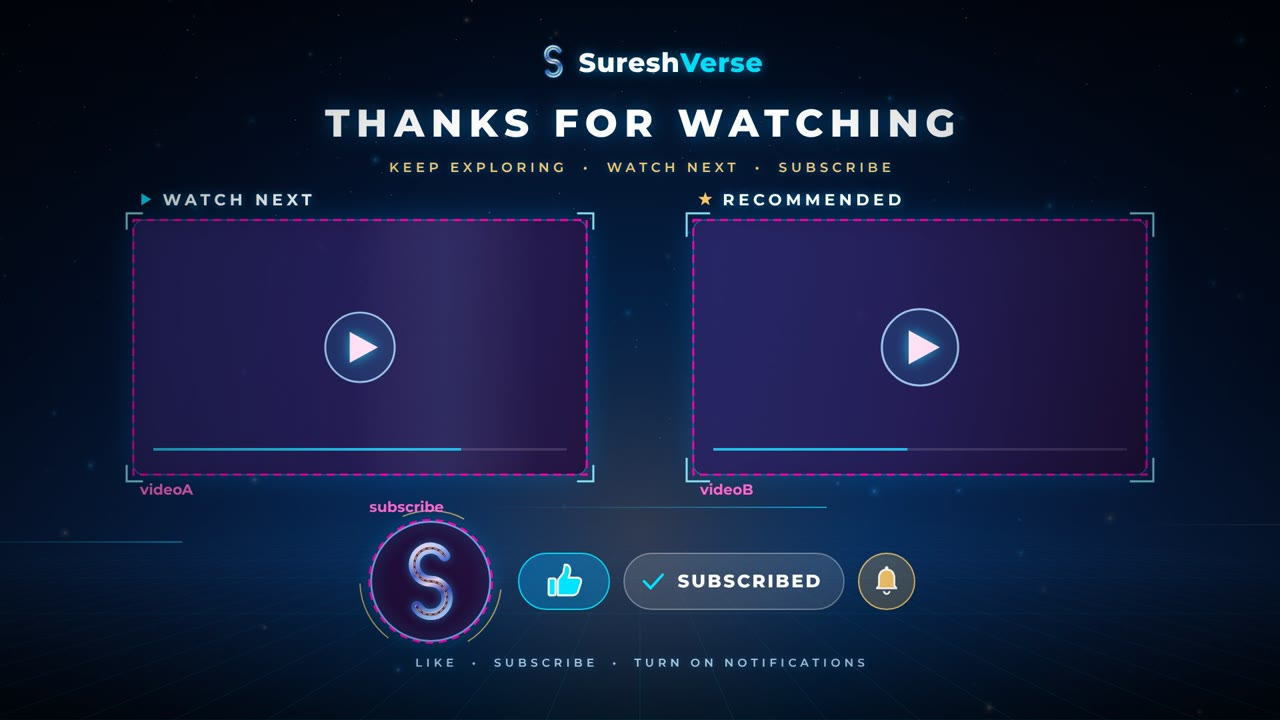
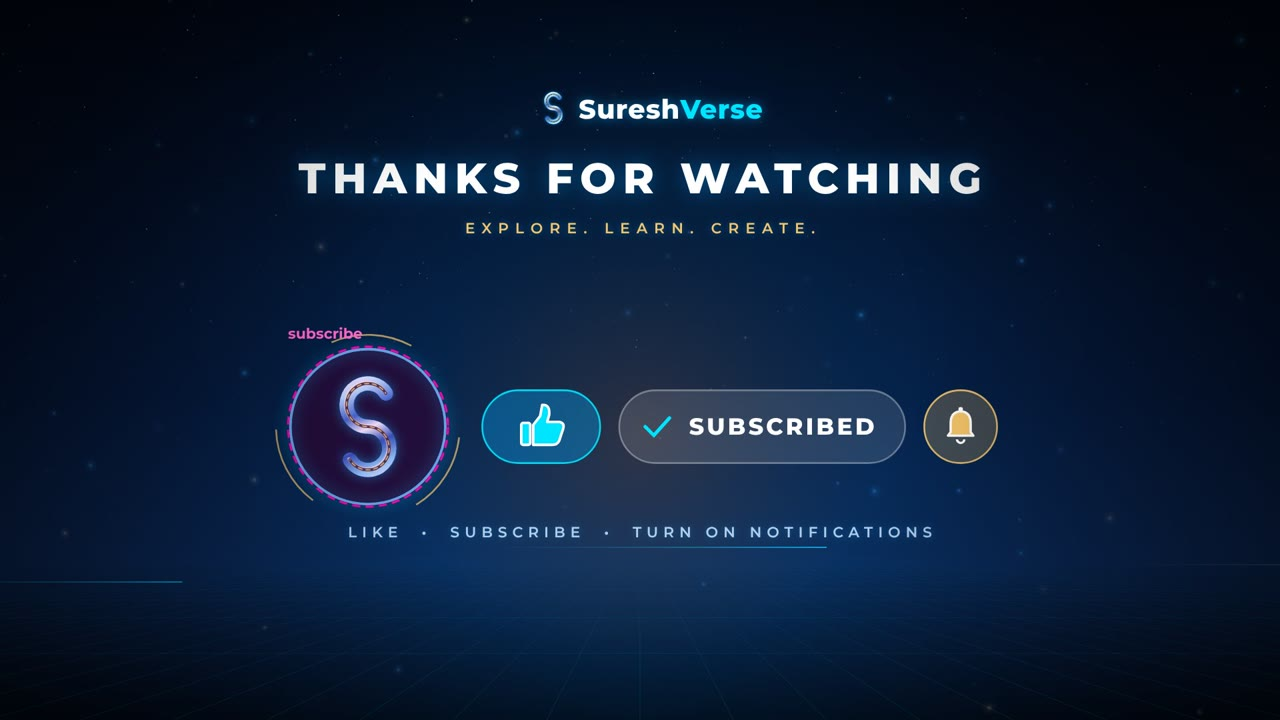
Remove video slots from the end screen
Drops the WATCH NEXT / RECOMMENDED boxes and centres the headline and
Like -> Subscribe -> Bell row at 1.3x. Updates the placement guide and
README (YouTube still needs one video or playlist element somewhere).

Claude-Session: https://claude.ai/code/session_01EUhWJRwgkVxHQZ8vZYnXDi

Changed region(s): [[0.0938, 0.0611, 0.9062, 0.9167], [0.5, 0.9167, 0.6562, 0.9472], [0.4062, 0.9167, 0.4688, 0.9472]]

diff --git a/sureshverse-intro/js/outro.js b/sureshverse-intro/js/outro.js
@@ -1,16 +1,15 @@
-/* End screen / outro (15 s): "Thanks for watching", two video slots for
- * YouTube end-screen elements, and an animated Like → Subscribe → Bell call
- * to action next to the channel-icon slot.
+/* End screen / outro (15 s): "Thanks for watching" and an animated
+ * Like → Subscribe → Bell call to action next to the channel-icon slot.
  *
  *   0.0 – 1.4   background, brand row and headline assemble
- *   0.6 – 1.6   video slots slide in (WATCH NEXT / RECOMMENDED)
  *   1.4 – 2.2   subscribe row rises in
  *   2.5 – 5.6   cursor: like (2.9) → subscribe (3.8) → bell (4.7) → exits
  *   5.6 – 14.4  ambient hold (gentle pulses, bell reminders at 9 s and 12 s)
  *  14.45 – 15   fade to black
  *
- * Layout of the YouTube end-screen element slots, in 1920×1080 pixels
- * (also drawn as an overlay with ?guide=1):
+ * The subscribe row is laid out in its own coordinates and placed on screen
+ * by ROW (scale about its centre). The resulting channel-icon slot, in
+ * 1920×1080 pixels, is SLOTS.subscribe (drawn as an overlay with ?guide=1).
  */
 (function () {
   const SV = window.SV;
@@ -18,14 +17,21 @@
   const E = U.ease;
   const B = SV.brand;
 
-  const SLOTS = {
-    videoA: { x: 200, y: 330, w: 680, h: 382 },
-    videoB: { x: 1040, y: 330, w: 680, h: 382 },
-    subscribe: { cx: 646, cy: 872, r: 92 },
-  };
+  // row-local layout
+  const ICON = { cx: 646, cy: 872, r: 92 };
   const LIKE = { x: 778, y: 830, w: 136, h: 84 };
   const SUB = { x: 936, y: 830, w: 330, h: 84 };
   const BELL = { cx: 1330, cy: 872, r: 42 };
+  // place the row centred on screen at 1.3× size
+  const ROW = { ox: 960, oy: 872, x: 960, y: 640, s: 1.3 };
+  const toScreen = (x, y) => ({ x: ROW.x + (x - ROW.ox) * ROW.s, y: ROW.y + (y - ROW.oy) * ROW.s });
+  const iconPos = toScreen(ICON.cx, ICON.cy);
+  const SLOTS = { subscribe: { cx: Math.round(iconPos.x), cy: Math.round(iconPos.y), r: Math.round(ICON.r * ROW.s) } };
+  function rowSpace(ctx) {
+    ctx.translate(ROW.x, ROW.y);
+    ctx.scale(ROW.s, ROW.s);
+    ctx.translate(-ROW.ox, -ROW.oy);
+  }
 
   const guide = new URLSearchParams(location.search).get("guide") === "1";
   let stars, motes, spark, sparkGold;
@@ -51,7 +57,7 @@
     ctx.fillRect(0, 0, 1920, 1080);
 
     // warm gold + cyan horizon glow behind the subscribe row
-    const hg = ctx.createRadialGradient(960, 800, 0, 960, 800, 1000);
+    const hg = ctx.createRadialGradient(960, 660, 0, 960, 660, 1000);
     hg.addColorStop(0, "rgba(255,180,100,0.16)");
     hg.addColorStop(0.35, "rgba(0,150,255,0.10)");
     hg.addColorStop(1, "rgba(0,60,160,0)");
@@ -65,7 +71,7 @@
     }
 
     // perspective grid floor
-    const hy = 760;
+    const hy = 820;
     ctx.save();
     ctx.lineWidth = 1;
     for (let i = -22; i <= 22; i++) {
@@ -102,7 +108,7 @@
     for (let i = 0; i < 3; i++) {
       const q = U.fract(t / 5 + i / 3);
       const x0 = U.lerp(-500, 2400, q);
-      const yy = 760 + i * 26;
+      const yy = 820 + i * 26;
       const g = ctx.createLinearGradient(x0 - 600, 0, x0, 0);
       g.addColorStop(0, "rgba(0,0,0,0)");
       g.addColorStop(1, i === 1 ? "rgba(255,200,120,0.5)" : "rgba(0,229,255,0.5)");
@@ -118,7 +124,7 @@
     if (a > 0) {
       ctx.save();
       ctx.globalAlpha = a;
-      B.drawS(ctx, 830, 92 + (1 - a) * 14, 0.2, Math.sin(t * 0.8) * 0.15, { glow: 0.6, line: 1, dashOffset: t * 30 });
+      B.drawS(ctx, 830, 162 + (1 - a) * 14, 0.2, Math.sin(t * 0.8) * 0.15, { glow: 0.6, line: 1, dashOffset: t * 30 });
       ctx.restore();
       ctx.save();
       ctx.globalAlpha = a;
@@ -129,134 +135,17 @@
       ctx.fillStyle = "#ffffff";
       ctx.shadowColor = "rgba(0,170,255,0.6)";
       ctx.shadowBlur = 16;
-      ctx.fillText(B.WORD_A, 868, 96 + (1 - a) * 14);
+      ctx.fillText(B.WORD_A, 868, 166 + (1 - a) * 14);
       ctx.fillStyle = "#00e5ff";
-      ctx.fillText(B.WORD_B, 868 + wa, 96 + (1 - a) * 14);
+      ctx.fillText(B.WORD_B, 868 + wa, 166 + (1 - a) * 14);
       ctx.restore();
     }
     const h = E.outCubic(U.range(t, 0.45, 1.25));
     const sp = U.lerp(26, 10, E.outCubic(U.range(t, 0.45, 1.8)));
-    B.drawSpaced(ctx, "THANKS FOR WATCHING", 960, 205 + (1 - h) * 20, 58, sp, "#ffffff", h, 800);
+    B.drawSpaced(ctx, "THANKS FOR WATCHING", 960, 290 + (1 - h) * 20, 64, sp, "#ffffff", h, 800);
     const sub = E.outCubic(U.range(t, 0.9, 1.6));
-    B.drawSpaced(ctx, "KEEP EXPLORING  •  WATCH NEXT  •  SUBSCRIBE", 960, 258 + (1 - sub) * 12, 20, 6, "#f5c56b", sub, 600);
+    B.drawSpaced(ctx, "EXPLORE. LEARN. CREATE.", 960, 350 + (1 - sub) * 12, 22, 10, "#f5c56b", sub, 600);
   }
-
-  // ---------- video slots ----------
-  function videoSlot(ctx, t, s, k, label, icon, seed) {
-    if (k <= 0) return;
-    ctx.save();
-    ctx.globalAlpha = k;
-    const cx = s.x + s.w / 2, cy = s.y + s.h / 2;
-    const sc = U.lerp(0.9, 1, k);
-    ctx.translate(cx, cy);
-    ctx.scale(sc, sc);
-    ctx.translate(-cx, -cy);
-
-    // glass panel
-    const g = ctx.createLinearGradient(s.x, s.y, s.x + s.w, s.y + s.h);
-    g.addColorStop(0, "rgba(10,40,90,0.75)");
-    g.addColorStop(1, "rgba(4,16,40,0.85)");
-    ctx.fillStyle = g;
-    ctx.shadowColor = "rgba(0,150,255,0.35)";
-    ctx.shadowBlur = 40;
-    ctx.beginPath();
-    ctx.roundRect(s.x, s.y, s.w, s.h, 16);
-    ctx.fill();
-    ctx.shadowBlur = 0;
-    ctx.strokeStyle = "rgba(0,229,255,0.45)";
-    ctx.lineWidth = 1.5;
-    ctx.stroke();
-
-    // shimmer sweep
-    ctx.save();
-    ctx.clip();
-    const q = U.fract(t / 3.2 + seed);
-    const x0 = U.lerp(s.x - 300, s.x + s.w + 300, q);
-    const sg = ctx.createLinearGradient(x0 - 140, 0, x0 + 140, 0);
-    sg.addColorStop(0, "rgba(255,255,255,0)");
-    sg.addColorStop(0.5, "rgba(140,220,255,0.10)");
-    sg.addColorStop(1, "rgba(255,255,255,0)");
-    ctx.fillStyle = sg;
-    ctx.fillRect(s.x, s.y, s.w, s.h);
-    ctx.restore();
-
-    // animated corner brackets
-    const c = 30 + 6 * Math.sin(t * 2 + seed * 9);
-    ctx.strokeStyle = "rgba(140,235,255,0.95)";
-    ctx.lineWidth = 3;
-    for (const [sx, sy] of [[0, 0], [1, 0], [1, 1], [0, 1]]) {
-      const x = s.x + sx * s.w + (sx ? 10 : -10), y = s.y + sy * s.h + (sy ? 10 : -10);
-      const dx = sx ? -1 : 1, dy = sy ? -1 : 1;
-      ctx.beginPath();
-      ctx.moveTo(x + dx * c, y);
-      ctx.lineTo(x, y);
-      ctx.lineTo(x, y + dy * c);
-      ctx.stroke();
-    }
-
-    // play button
-    const pulse = 1 + 0.06 * Math.sin(t * 3 + seed * 5);
-    ctx.save();
-    ctx.translate(cx, cy);
-    ctx.scale(pulse, pulse);
-    ctx.fillStyle = "rgba(0,229,255,0.12)";
-    ctx.strokeStyle = "rgba(160,240,255,0.9)";
-    ctx.lineWidth = 3;
-    ctx.beginPath();
-    ctx.arc(0, 0, 54, 0, U.TAU);
-    ctx.fill();
-    ctx.stroke();
-    ctx.fillStyle = "#ffffff";
-    ctx.shadowColor = "rgba(0,229,255,0.9)";
-    ctx.shadowBlur = 18;
-    ctx.beginPath();
-    ctx.moveTo(-16, -24);
-    ctx.lineTo(28, 0);
-    ctx.lineTo(-16, 24);
-    ctx.closePath();
-    ctx.fill();
-    ctx.restore();
-
-    // progress line + caption inside the slot
-    ctx.fillStyle = "rgba(255,255,255,0.15)";
-    ctx.fillRect(s.x + 30, s.y + s.h - 40, s.w - 60, 4);
-    ctx.fillStyle = "rgba(0,229,255,0.9)";
-    ctx.fillRect(s.x + 30, s.y + s.h - 40, (s.w - 60) * (0.25 + 0.5 * U.fract(t / 9 + seed)), 4);
-
-    // label above the slot
-    ctx.textAlign = "left";
-    ctx.textBaseline = "alphabetic";
-    ctx.font = `700 24px ${U.FONT}`;
-    ctx.letterSpacing = "6px";
-    ctx.fillStyle = "#ffffff";
-    ctx.shadowColor = "rgba(0,170,255,0.6)";
-    ctx.shadowBlur = 12;
-    ctx.fillText(label, s.x + 44, s.y - 22);
-    ctx.shadowBlur = 0;
-    icon(ctx, s.x + 18, s.y - 31);
-    ctx.restore();
-  }
-
-  const playIcon = (ctx, x, y) => {
-    ctx.fillStyle = "#00e5ff";
-    ctx.beginPath();
-    ctx.moveTo(x - 6, y - 9);
-    ctx.lineTo(x + 9, y);
-    ctx.lineTo(x - 6, y + 9);
-    ctx.closePath();
-    ctx.fill();
-  };
-  const starIcon = (ctx, x, y) => {
-    ctx.fillStyle = "#f5c56b";
-    ctx.beginPath();
-    for (let i = 0; i < 10; i++) {
-      const a = -Math.PI / 2 + (i * Math.PI) / 5;
-      const r = i % 2 ? 4.5 : 11;
-      ctx.lineTo(x + Math.cos(a) * r, y + Math.sin(a) * r);
-    }
-    ctx.closePath();
-    ctx.fill();
-  };
 
   // ---------- subscribe row ----------
   function thumb(ctx, x, y, s, fill) {
@@ -346,10 +235,11 @@
     if (k <= 0) return;
     ctx.save();
     ctx.translate(0, (1 - k) * 40);
+    rowSpace(ctx);
     ctx.globalAlpha = k;
 
     // channel-icon slot: logo inside a rotating energy ring
-    const S0 = SLOTS.subscribe;
+    const S0 = ICON;
     const breathe = 1 + 0.03 * Math.sin(t * 2.2);
     ctx.save();
     ctx.fillStyle = "rgba(4,16,40,0.9)";
@@ -373,7 +263,10 @@
       ctx.stroke();
     }
     ctx.restore();
-    B.drawS(ctx, S0.cx, S0.cy, 0.48, Math.sin(t * 0.9) * 0.2, { glow: 0.7, line: 1, dashOffset: t * 30, alpha: k });
+    // drawS sets an absolute transform, so give it screen coordinates
+    B.drawS(ctx, iconPos.x, iconPos.y + (1 - k) * 40, 0.48 * ROW.s, Math.sin(t * 0.9) * 0.2, { glow: 0.7, line: 1, dashOffset: t * 30, alpha: k });
+    ctx.setTransform(1, 0, 0, 1, 0, (1 - k) * 40);
+    rowSpace(ctx);
 
     // LIKE
     const liked = t >= CLICK.like;
@@ -508,14 +401,14 @@
   function cursorPos(t) {
     // keyframes: [time, x, y]
     const K = [
-      [2.45, 1500, 1120],
+      [2.45, 1500, 1300],
       [2.85, LIKE.x + 74, LIKE.y + 50],
       [3.15, LIKE.x + 74, LIKE.y + 50],
       [3.75, SUB.x + 190, SUB.y + 52],
       [4.1, SUB.x + 190, SUB.y + 52],
       [4.65, BELL.cx + 6, BELL.cy + 8],
       [5.0, BELL.cx + 6, BELL.cy + 8],
-      [5.6, 1620, 1130],
+      [5.6, 1620, 1300],
     ];
     if (t <= K[0][0]) return { x: K[0][1], y: K[0][2] };
     for (let i = 0; i < K.length - 1; i++) {
@@ -535,6 +428,7 @@
     const clk = Math.max(press(t, CLICK.like), press(t, CLICK.sub), press(t, CLICK.bell));
     const s = 1.6 * (1 - clk * 0.15);
     ctx.save();
+    rowSpace(ctx);
     ctx.translate(p.x, p.y);
     ctx.scale(s, s);
     ctx.shadowColor = "rgba(0,0,0,0.6)";
@@ -583,8 +477,6 @@
   function draw(ctx, t) {
     background(ctx, t);
     header(ctx, t);
-    videoSlot(ctx, t, SLOTS.videoA, E.outCubic(U.range(t, 0.6, 1.4)), "WATCH NEXT", playIcon, 0.1);
-    videoSlot(ctx, t, SLOTS.videoB, E.outCubic(U.range(t, 0.8, 1.6)), "RECOMMENDED", starIcon, 0.55);
     subscribeRow(ctx, t);
     cursor(ctx, t);
     if (guide) drawGuide(ctx);

diff --git a/sureshverse-intro/README.md b/sureshverse-intro/README.md
@@ -5,7 +5,7 @@ Two branded videos for **SureshVerse** (*Explore. Learn. Create.*), both 1920 ×
 | Video | Length | Page | MP4 |
 |---|---|---|---|
 | **Channel intro** | 12 s | `index.html` | `output/sureshverse-intro.mp4` |
-| **End screen / outro** ("Thanks for watching" + Watch & Subscribe) | 15 s | `outro.html` | `output/sureshverse-outro.mp4` |
+| **End screen / outro** ("Thanks for watching" + Like & Subscribe) | 15 s | `outro.html` | `output/sureshverse-outro.mp4` |
 
 Both are built with plain HTML, Canvas 2D and the Web Audio API. They play live in a browser and export to production MP4s frame by frame.
 
@@ -33,7 +33,7 @@ sureshverse-intro/
 │   │   └── lockup.js          Scene 5: final lockup + fade to black
 │   ├── comp.js                Shared engine: canvas, fonts, vignette, grain, fades, motion blur
 │   ├── intro.js               Intro timeline + transitions
-│   ├── outro.js               End screen: video slots, Like → Subscribe → Bell animation
+│   ├── outro.js               End screen: Like → Subscribe → Bell animation
 │   ├── audio.js               Instrument kit + intro/outro scores + WAV encoder
 │   └── player.js              Live playback, audio sync, scrubbing, shortcuts
 ├── assets/fonts/              Montserrat variable font + OFL licence
@@ -41,7 +41,7 @@ sureshverse-intro/
 │   ├── serve.mjs              Zero-dependency local web server
 │   ├── export.mjs             Deterministic frame renderer → FFmpeg → MP4
 │   └── qc.mjs                 Automated quality check + contact sheet
-├── docs/end-screen-guide.jpg  Where to place YouTube end-screen elements
+├── docs/end-screen-guide.jpg  Where to place YouTube's subscribe element
 ├── audio/                     Generated soundtrack WAVs (created by export)
 ├── output/                    MP4s and QC images (created by export / qc)
 └── package.json
@@ -117,12 +117,11 @@ ffmpeg -framerate 30 -i output/frames/frame_%05d.png -i audio/sureshverse-soundt
 
 You can also import the PNG sequence into Premiere, DaVinci Resolve or After Effects at 30 fps.
 
-## 5. End screen (Watch & Subscribe)
+## 5. End screen (Like & Subscribe)
 
 `outro.html` is a 15 s end screen (YouTube allows 5–20 s). It contains:
 
-- The **SureshVerse** brand row and **THANKS FOR WATCHING** headline
-- Two animated **video slots**, "WATCH NEXT" and "RECOMMENDED", where YouTube's video elements go
+- The **SureshVerse** brand row, the **THANKS FOR WATCHING** headline and the tagline
 - A **channel-icon circle** with the S logo, where YouTube's subscribe element goes
 - An animated cursor that clicks **Like** (2.9 s), then **Subscribe**, which turns into "✓ SUBSCRIBED" with a spark burst (3.8 s), then the **notification bell**, which rings (4.7 s)
 - A soft ambient hold, with bell reminders at 9 s and 12 s, then a fade to black
@@ -133,14 +132,9 @@ The like, subscribe and bell graphics are original drawings. They don't use the 
 
 1. Append `sureshverse-outro.mp4` to the end of each video in your editor, so the end screen fills the final 15 s.
 2. After uploading, go to **YouTube Studio → Content → (video) → Editor → End screen**.
-3. Add **2 video elements** and **1 subscribe element**. Drag them over the magenta guides shown in `docs/end-screen-guide.jpg`. To render your own guide, run `npm run export:outro:guide` or open `outro.html?guide=1`.
-   | Element | Position in the 1920×1080 frame |
-   |---|---|
-   | Video A ("Watch next" → *Most recent upload*) | x 200, y 330, 680 × 382 |
-   | Video B ("Recommended" → *Best for viewer*) | x 1040, y 330, 680 × 382 |
-   | Subscribe (channel icon) | circle centred at x 646, y 872, radius 92 |
-4. Set each element to run for the whole end screen, i.e. the last 15 s of the video.
-5. Preview it in Studio. The animated placeholders sit underneath YouTube's clickable thumbnails, so the slot labels and glow frames stay visible around them.
+3. Add a **subscribe element** and drag it onto the S-logo circle, shown in magenta in `docs/end-screen-guide.jpg`. It's a circle centred at x 552, y 640 with radius 120 in the 1920×1080 frame. To render your own guide, run `npm run export:outro:guide` or open `outro.html?guide=1`.
+4. YouTube requires every end screen to include **at least one video or playlist element**. The design has no video boxes, so place that element in an open area: either side of the centre row, or the lower third of the frame.
+5. Set the elements to show for the whole end screen, i.e. the last 15 s of the video, then preview it in Studio.
 
 ## 6. Audio
 
@@ -170,7 +164,7 @@ The soundtrack (`js/audio.js`) is synthesised from oscillators, filtered noise a
 
 | Time (s) | Picture | Sound |
 |---|---|---|
-| 0.10 – 0.90 | Brand row, headline and video slots assemble | Soft whoosh + light impact |
+| 0.10 – 0.90 | Brand row and headline assemble | Soft whoosh + light impact |
 | 0.00 – 15.0 | | Calm D – Bm – G – A pads with a gentle arpeggio; soft pulse from 5 s |
 | 2.90 | Cursor clicks **Like** | Click + pop |
 | 3.80 | **Subscribe** → ✓ SUBSCRIBED, spark burst | Click + confirmation chime |
@@ -193,7 +187,7 @@ The soundtrack (`js/audio.js`) is synthesised from oscillators, filtered noise a
 
 - **Timing:** each scene reads absolute time `t`. The transition windows are in `js/intro.js` and the score is in `A.build()` in `js/audio.js`. Change both together.
 - **Colours:** `U.C` in `js/util.js`, plus the gradients in each scene.
-- **Text:** the tagline and category line are in `js/scenes/cosmos.js` and `js/scenes/lockup.js`. Panel labels are in the `PANELS` array in `js/scenes/tech.js`. End-screen text and slot positions (`SLOTS`) are in `js/outro.js`.
+- **Text:** the tagline and category line are in `js/scenes/cosmos.js` and `js/scenes/lockup.js`. Panel labels are in the `PANELS` array in `js/scenes/tech.js`. End-screen text and the row's placement and size (`ROW`) are in `js/outro.js`.
 - **Why Canvas 2D rather than Three.js:** all of the 3D effects (sphere-mapped Earth, rotating extruded S, projected neural globe, perspective road) are computed directly. That keeps the project free of dependencies, fast enough for real-time playback, and exactly reproducible for frame export.
 
 ## Credits & licences
